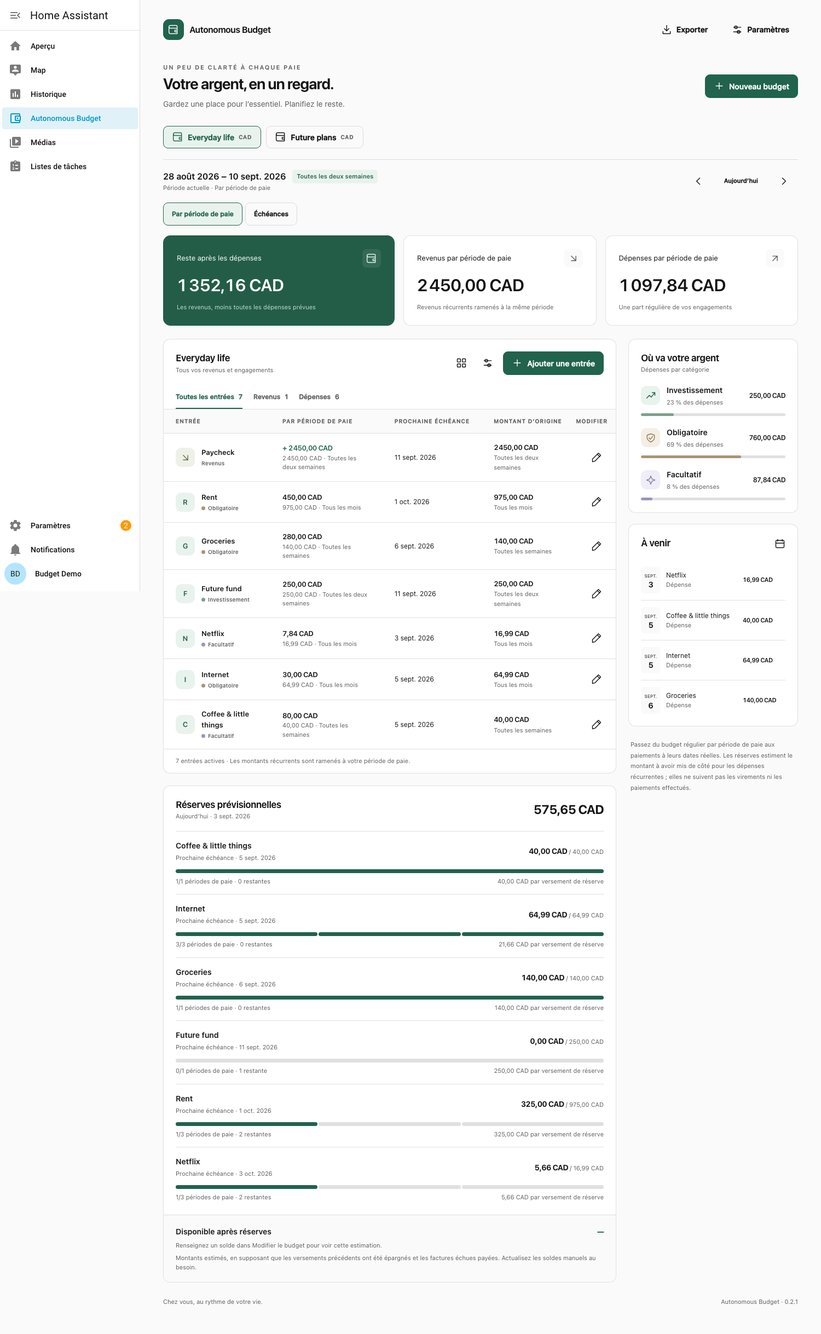
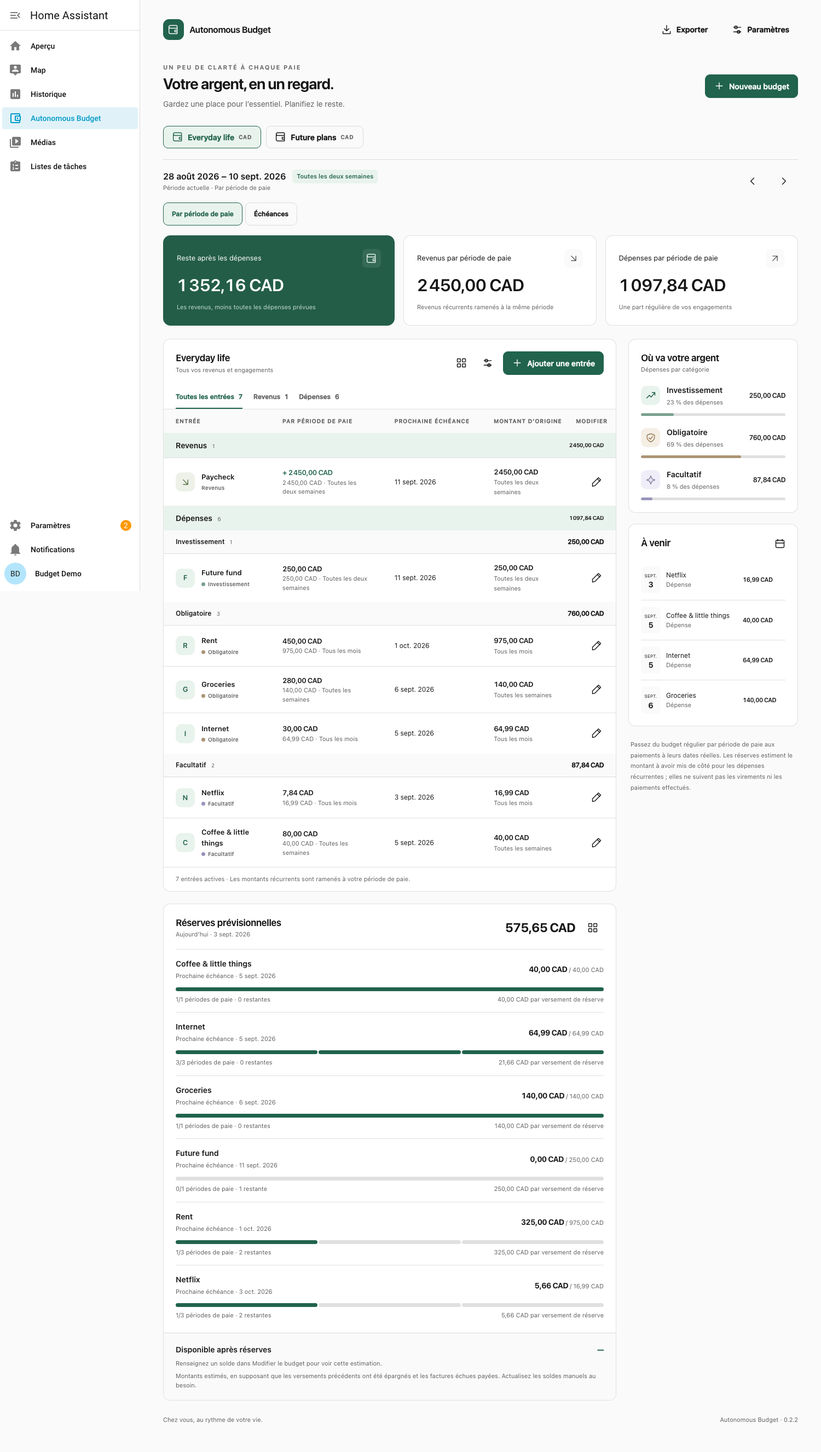
Group budget entries and expose reserve entity access in 0.2.2

diff --git a/custom_components/autonomous_budget/frontend/autonomous-budget-panel.js b/custom_components/autonomous_budget/frontend/autonomous-budget-panel.js
@@ -1,8 +1,9 @@
-import { BudgetLiveElement, baseCSS, esc, icon, labels, options } from "./shared.js?v=0.2.1";
+import { BudgetLiveElement, baseCSS, esc, icon, labels, options } from "./shared.js?v=0.2.2";
 
 const css = `
 :host{height:100%;overflow:auto;background:var(--ab-bg)}.shell{max-width:1390px;margin:auto;padding:32px 42px 50px}.brand{gap:10px}.brand-mark{width:38px;height:38px;border-radius:11px;display:grid;place-items:center;background:var(--ab-green);color:var(--ab-surface)}.brand-title{font-size:16px;font-weight:650;letter-spacing:-.5px}.topbar{padding-bottom:32px}.topbar .muted{font-size:12px}.heading{margin:8px 0 27px}.heading p{margin-top:5px}.budgets{display:flex;gap:9px;overflow-x:auto;padding:3px 0 20px;align-items:center}.budget-tab{white-space:nowrap;background:transparent;min-height:40px;padding:9px 16px}.budget-tab.active{color:var(--ab-green);border-color:var(--ab-green);background:var(--ab-pale)}.budget-tab small{color:var(--ab-muted);font-size:10px;letter-spacing:.8px}.period-bar{padding:18px 0 23px;border-top:1px solid var(--ab-line)}.period-title{font-size:16px;font-weight:600}.period-nav{display:flex;align-items:center;gap:5px}.period-nav button{background:transparent}.period-nav .prev svg{transform:rotate(180deg)}.stats{display:grid;grid-template-columns:1.2fr 1fr 1fr;gap:16px;margin-bottom:24px}.stat{border:1px solid var(--ab-line);border-radius:13px;background:var(--ab-surface);padding:24px}.stat .value{font-size:31px;font-weight:600;margin:12px 0 8px;line-height:1.3;overflow-wrap:anywhere}.stat.balance{background:#235d48;color:#fff;border-color:#235d48}.stat.balance .muted{color:#c8dfd1}.stat.balance .badge{background:#ffffff19;color:#e2f3e9}.stat.balance .negative{color:#ffd2c8}.stat-label{font-size:13px}.stat-icon{border-radius:8px;padding:7px;background:var(--ab-bg);color:var(--ab-muted);height:34px}.balance .stat-icon{background:#ffffff15;color:#e2f3e9}.layout{display:grid;grid-template-columns:minmax(0,1fr) 310px;gap:22px;align-items:start}.box{background:var(--ab-surface);border:1px solid var(--ab-line);border-radius:13px;overflow:hidden}.box-head{padding:22px 22px 18px}.tabs{display:flex;gap:20px;padding:0 22px;border-bottom:1px solid var(--ab-line)}.tabs button{border:0;border-radius:0;background:transparent;color:var(--ab-muted);padding:11px 0;font-size:12px;min-height:44px}.tabs button.active{color:var(--ab-green);box-shadow:inset 0 -2px var(--ab-green)}.table-wrap{overflow:auto}table{border-collapse:collapse;width:100%;text-align:left}th{font-size:10px;color:var(--ab-muted);text-transform:uppercase;letter-spacing:1px;font-weight:550;padding:14px 22px;background:var(--ab-bg);white-space:nowrap}td{padding:16px 22px;border-top:1px solid var(--ab-line);font-size:12px;vertical-align:middle}td:first-child{min-width:180px}td:last-child,th:last-child{text-align:right;padding-left:0;padding-right:15px}td .entry-name{font-weight:600;font-size:13px;max-width:230px;overflow-wrap:anywhere}.entry-icon{width:35px;height:35px;border-radius:10px;display:grid;place-items:center;background:var(--ab-pale);color:var(--ab-green);flex-shrink:0;font-size:13px;font-weight:600}.entry-icon.income{background:#edf1e8;color:#5b7547}.entry-meta{display:flex;align-items:center;gap:5px;font-size:10px;color:var(--ab-muted);margin-top:3px}.amount{white-space:nowrap;font-weight:600;font-size:13px}.small{font-size:11px}.table-foot{border-top:1px solid var(--ab-line);padding:13px 22px;font-size:11px;color:var(--ab-muted)}.side{display:grid;gap:20px}.category-list{padding:0 22px 22px;display:grid;gap:19px}.category-icon{width:35px;height:35px;background:var(--ab-pale);color:var(--ab-green);border-radius:10px;display:grid;place-items:center}.category-icon.mandatory{background:#f4eee5;color:#9a7955}.category-icon.optional{background:#efedf7;color:#877fa3}.category-list .amount{font-size:12px}.bar{height:5px;border-radius:10px;background:var(--ab-line);margin-top:11px;overflow:hidden}.bar span{display:block;height:100%;background:#78a18e;border-radius:10px}.bar .mandatory{background:#ab9475}.bar .optional{background:#9795bc}.schedule{padding:0 22px 10px}.due-row{padding:12px 0;border-bottom:1px solid var(--ab-line);gap:10px}.due-row:last-child{border:0}.date-tile{width:36px;text-align:center;flex-shrink:0;background:var(--ab-bg);border-radius:7px;line-height:1.3;padding:6px 2px}.date-tile b{display:block;font-size:14px}.date-tile span{font-size:8px;text-transform:uppercase}.due-name{max-width:130px;overflow-wrap:anywhere;font-size:12px}.due-row .amount{font-size:11px}.note{padding:3px 4px;color:var(--ab-muted);font-size:11px;line-height:1.8}.footer{margin-top:27px;font-size:11px;color:var(--ab-muted)}.mobile-menu{display:none}.no-budgets{max-width:680px;margin:60px auto}.toolbar{display:flex;gap:8px}.status{padding:50px}.dialog{padding:0;background:var(--ab-surface);color:var(--ab-text);border:1px solid var(--ab-line);border-radius:15px;max-width:550px;width:calc(100% - 32px);max-height:90dvh;box-shadow:0 24px 80px #0003}.dialog::backdrop{background:#102d2366;backdrop-filter:blur(3px)}.dialog header{padding:22px 24px 12px;display:flex;align-items:center;justify-content:space-between}.dialog form,.dialog-content{padding:8px 24px 24px}.form-grid{display:grid;grid-template-columns:1fr 1fr;gap:17px}.field{display:flex;flex-direction:column;gap:7px;font-size:12px;font-weight:550}.field.full{grid-column:1/-1}.field input,.field select{width:100%;min-height:43px;border:1px solid var(--ab-line);border-radius:8px;padding:10px 11px;background:var(--ab-bg);color:var(--ab-text);outline-offset:1px;min-width:0}.field small{font-size:11px;font-weight:400;color:var(--ab-muted)}.field input:disabled,.field select:disabled{opacity:.55}.checkbox{display:flex;align-items:center;gap:9px;font-size:13px}.checkbox input{accent-color:var(--ab-green);width:17px;height:17px}.dialog-actions{display:flex;justify-content:flex-end;gap:9px;margin-top:24px}.form-error{font-size:12px;color:#b13d37;margin-top:14px}.help{padding:13px;background:var(--ab-bg);border-radius:8px;font-size:12px;color:var(--ab-muted);margin-bottom:18px}.dialog pre{white-space:pre-wrap;overflow-wrap:anywhere;padding:14px;background:var(--ab-bg);border-radius:9px;font-size:12px;user-select:all}.dialog h3{margin:18px 0 8px}.toast{position:fixed;bottom:22px;left:50%;transform:translateX(-50%);background:#235d48;color:white;border-radius:9px;padding:12px 22px;z-index:10;box-shadow:0 3px 20px #0002}.paused{opacity:.65}
 .view-switch{display:flex;gap:5px;margin:-5px 0 18px}.view-switch button{font-size:12px;background:transparent}.view-switch .active{background:var(--ab-pale);border-color:var(--ab-green);color:var(--ab-green)}.main-column{display:grid;gap:22px;min-width:0}.reserve-list{padding:0 22px 8px}.reserve-entry{padding:15px 0;border-top:1px solid var(--ab-line)}.reserve-entry h3{overflow-wrap:anywhere}.reserve-entry .row{gap:8px}.reserve-total{font-size:23px}.reserve-amount{white-space:nowrap}.segments{display:flex;gap:2px;height:7px;margin:12px 0 7px}.segments span{flex:1;border-radius:4px;background:linear-gradient(to right,var(--ab-green) var(--fill),var(--ab-line) var(--fill))}.available-summary{padding:19px 22px;background:var(--ab-bg);border-top:1px solid var(--ab-line)}.available-summary p{margin:7px 0 0}.reserves .box-head{gap:12px}
+.entry-group-heading th{text-transform:none;letter-spacing:0;padding:12px 22px;color:var(--ab-text)}.entry-group-heading.direction th{background:var(--ab-pale);font-weight:650}.entry-group-heading.direction h3{font-size:14px}.entry-group-heading.category h3{font-size:12px}.entry-group-heading.category th{font-size:12px;background:var(--ab-bg)}.group-count{font-size:10px;color:var(--ab-muted);font-weight:400;margin-left:6px}.period-nav{flex-shrink:0}
 @media(max-width:1150px){.shell{padding:25px}.layout{grid-template-columns:minmax(0,1fr) 270px}td,th{padding-left:15px;padding-right:15px}.stat .value{font-size:25px}.hide-medium{display:none}}
 @media(max-width:850px){.layout{grid-template-columns:1fr}.side{grid-template-columns:1fr 1fr}.side .note{grid-column:1/-1}.shell{padding:20px}.topbar{padding-bottom:23px}.topbar .desktop-label{display:none}.mobile-menu{display:inline-flex}.stat{padding:18px}.stat .value{font-size:23px}.heading{margin-bottom:20px}}
 @media(max-width:560px){.shell{padding:16px 13px 35px}.brand-title{font-size:14px}.brand-mark{width:32px;height:32px}.topbar{gap:4px}.topbar .row{gap:5px}.heading{align-items:flex-start}.heading h1{font-size:25px}.heading p{font-size:12px;max-width:215px}.heading .primary{font-size:12px;padding:9px 11px}.stats{grid-template-columns:1fr 1fr;gap:10px;margin-bottom:16px}.stat{padding:16px}.stat.balance{grid-column:1/-1}.stat .value{font-size:19px}.stat.balance .value{font-size:32px}.stat-label{font-size:11px}.stat-icon{display:none}.stat .muted{font-size:10px}.period-bar{padding:14px 0 18px;gap:8px}.period-title{font-size:13px}.period-bar .badge{font-size:9px}.period-nav button{padding:8px;min-width:32px}.side{grid-template-columns:1fr}.box-head{padding:18px 16px}.tabs{padding:0 16px}.hide-small{display:none}.entry-name{max-width:140px!important}.entry-icon{display:none}td:first-child{min-width:125px}td,th{padding:13px 14px}.amount{font-size:11px}.form-grid{gap:12px}.dialog header{padding:17px 18px 8px}.dialog form,.dialog-content{padding:8px 18px 20px}.footer{align-items:flex-start;gap:8px}.budget-tab{font-size:12px}.box-head .primary{font-size:12px}}
@@ -29,7 +30,7 @@ class AutonomousBudgetPanel extends BudgetLiveElement {
       <div class="topbar row between"><div class="row"><button class="quiet icon mobile-menu" data-action="menu" aria-label="Open Home Assistant menu">${icon("menu")}</button><div class="brand row"><span class="brand-mark">${icon("wallet")}</span><span class="brand-title">Autonomous Budget</span></div></div><div class="row"><button class="quiet" data-action="export" aria-label="Export budgets" title="Export budgets">${icon("download")}<span class="desktop-label">Export</span></button>${this.admin ? `<button class="quiet" data-action="settings" aria-label="Settings">${icon("settings")}<span class="desktop-label">Settings</span></button>` : '<span class="badge">View only</span>'}</div></div>
       <div class="heading row between"><div><div class="eyebrow muted">A little clarity, every payday</div><h1>Your money, in view.</h1><p class="muted">Make room for what matters. Plan the rest.</p></div>${this.admin ? `<button class="primary" data-action="new-budget">${icon("plus")}New budget</button>` : ""}</div>
       ${budget ? `${this.renderBudgets(budget)}${this.renderBudget(budget)}` : `<section class="box no-budgets empty">${icon("wallet")}<h2>A fresh start for your finances</h2><p class="muted">Create your first budget, then add your income, everyday bills, and future plans.</p>${this.admin ? '<button class="primary" data-action="new-budget">Create your first budget</button>' : '<p class="muted">Ask a Home Assistant administrator to create a budget.</p>'}</section>`}
-      <div class="footer row between"><span>Local to your home. In sync with your life.</span><span>Autonomous Budget · 0.2.1</span></div>
+      <div class="footer row between"><span>Local to your home. In sync with your life.</span><span>Autonomous Budget · 0.2.2</span></div>
     </div>`;
   }
   renderBudgets(budget) {
@@ -41,7 +42,7 @@ class AutonomousBudgetPanel extends BudgetLiveElement {
     const m = (value) => this.money(value, budget.currency);
     const items = budget.items.filter((item) => this.filter === "all" || item.direction === this.filter);
     const upcoming = budget.schedule.filter((item) => item.date >= this.data.today).slice(0, 5);
-    return `<div class="period-bar row between"><div><div class="row wrap"><span class="period-title">${this.dateLabel(budget.period_start, true)} – ${this.dateLabel(budget.period_last_day, true)}</span><span class="badge">${labels[budget.effective_period]}</span></div><div class="muted small">${this.offset === 0 ? "Current period" : this.offset < 0 ? "Past period projection" : "Upcoming period projection"} · ${planned ? "Per pay period" : "Scheduled cash flow"}</div></div><div class="period-nav"><button class="quiet prev" data-action="previous" aria-label="Previous period" ${this.offset <= -120 ? "disabled" : ""}>${icon("chevron")}</button><button class="quiet small" data-action="today">Today</button><button class="quiet" data-action="next" aria-label="Next period" ${this.offset >= 120 ? "disabled" : ""}>${icon("chevron")}</button></div></div>
+    return `<div class="period-bar row between"><div><div class="row wrap"><span class="period-title">${this.dateLabel(budget.period_start, true)} – ${this.dateLabel(budget.period_last_day, true)}</span><span class="badge">${labels[budget.effective_period]}</span></div><div class="muted small">${this.offset === 0 ? "Current period" : this.offset < 0 ? "Past period projection" : "Upcoming period projection"} · ${planned ? "Per pay period" : "Scheduled cash flow"}</div></div><div class="period-nav"><button class="quiet prev" data-action="previous" aria-label="Previous period" ${this.offset <= -120 ? "disabled" : ""}>${icon("chevron")}</button><button class="quiet" data-action="next" aria-label="Next period" ${this.offset >= 120 ? "disabled" : ""}>${icon("chevron")}</button></div></div>
     <div class="view-switch" role="group" aria-label="Calculation view">${["plan", "cashflow"].map((mode) => `<button data-action="view-mode" data-mode="${mode}" class="${this.viewMode === mode ? "active" : ""}" aria-pressed="${this.viewMode === mode}">${mode === "plan" ? "Per pay period" : "Due dates"}</button>`).join("")}</div>
     <section class="stats" aria-label="Period totals">
       <div class="stat balance"><div class="row between"><span class="stat-label">Left after expenses</span><span class="stat-icon">${icon("wallet")}</span></div><div class="value number ${Number(totals.balance) < 0 ? "negative" : ""}">${m(totals.balance)}</div><span class="muted small">${Number(totals.balance) < 0 ? "Planned expenses exceed income this period" : "Income minus everything you have planned"}</span></div>
@@ -50,15 +51,35 @@ class AutonomousBudgetPanel extends BudgetLiveElement {
     </section>
     <div class="layout"><div class="main-column"><section class="box"><div class="box-head row between"><div><h2><span translate="no">${esc(budget.name)}</span></h2><p class="muted small">All your income and commitments</p></div><div class="toolbar"><button class="quiet icon" data-action="dashboard" aria-label="Add budget to a dashboard" title="Dashboard card">${icon("grid")}</button>${this.admin ? `<button class="quiet icon" data-action="edit-budget" aria-label="Edit budget" title="Edit budget">${icon("settings")}</button><button class="primary" data-action="new-item">${icon("plus")}Add entry</button>` : ""}</div></div>
     <div class="tabs" role="group" aria-label="Filter entries">${["all", "income", "expense"].map((filter) => `<button class="${this.filter === filter ? "active" : ""}" data-action="filter" data-filter="${filter}" aria-pressed="${this.filter === filter}">${filter === "all" ? "All entries" : filter === "income" ? "Income" : "Expenses"} <span>${budget.items.filter((item) => filter === "all" || item.direction === filter).length}</span></button>`).join("")}</div>
-    ${items.length ? `<div class="table-wrap"><table><thead><tr><th>Entry</th><th>${planned ? "Per pay period" : "Amount"}</th><th class="hide-small">Next due</th><th class="hide-medium">${planned ? "Original amount" : "This period"}</th><th><span class="muted">${this.admin ? "Edit" : ""}</span></th></tr></thead><tbody>${items.map((item) => `<tr class="${item.active ? "" : "paused"}"><td><div class="row"><span class="entry-icon ${item.direction}">${item.direction === "income" ? icon("down") : esc(item.name.slice(0, 1).toUpperCase())}</span><div class="entry-name"><span translate="no">${esc(item.name)}</span><div class="entry-meta">${item.direction === "expense" ? (item.category ? `<span class="category-dot ${item.category}"></span>${labels[item.category]}` : "To categorize") : "Income"}${item.active ? "" : " · Paused"}</div></div></div></td><td><div class="amount number ${item.direction === "income" ? "positive" : ""}">${item.direction === "income" ? "+ " : ""}${planned ? m(item.planned_amount) : this.money(item.amount, item.currency)}</div><div class="small muted">${planned ? `${this.money(item.amount, item.currency)} · ` : ""}${labels[item.recurrence]}${item.currency !== budget.currency ? ` · × ${esc(item.exchange_rate)}` : ""}</div></td><td class="hide-small"><span>${this.dateLabel(item.next_due, true)}</span></td><td class="hide-medium"><div class="amount number">${planned ? this.money(item.amount, item.currency) : m(item.period_amount)}</div><span class="muted small">${planned ? labels[item.recurrence] : `${item.occurrences} due`}</span></td><td>${this.admin ? `<button class="quiet icon" data-action="edit-item" data-id="${item.id}" aria-label="Edit ${esc(item.name)}">${icon("edit")}</button>` : ""}</td></tr>`).join("")}</tbody></table></div>` : `<div class="empty">${icon("calendar")}<h3>${budget.items.length ? "No entries in this view" : "Give your money a plan"}</h3><p class="muted">${budget.items.length ? "Try another filter or add a new entry." : "Start with a paycheck, a subscription, or a bill. Every entry has its own schedule."}</p>${this.admin ? '<button data-action="new-item">Add an entry</button>' : ""}</div>`}
+    ${items.length ? this.renderEntries(budget, items, planned, totals) : `<div class="empty">${icon("calendar")}<h3>${budget.items.length ? "No entries in this view" : "Give your money a plan"}</h3><p class="muted">${budget.items.length ? "Try another filter or add a new entry." : "Start with a paycheck, a subscription, or a bill. Every entry has its own schedule."}</p>${this.admin ? '<button data-action="new-item">Add an entry</button>' : ""}</div>`}
     <div class="table-foot">${budget.items.filter((item) => item.active).length} active entries · ${planned ? "Recurring amounts are normalized to your pay period." : "Totals count payments due in the selected period."}</div></section>${this.renderReserves(budget)}</div>
     <aside class="side"><section class="box"><div class="box-head"><h2>Where your money goes</h2><p class="muted small">Expenses by category</p></div><div class="category-list">${["investment", "mandatory", "optional"].map((category) => { const pct = Number(totals.expenses) ? Number(totals[category]) / Number(totals.expenses) * 100 : 0; return `<div><div class="row"><span class="category-icon ${category}">${icon(category)}</span><div class="spacer"><h3>${labels[category]}</h3><span class="muted small">${Math.round(pct)}% of expenses</span></div><span class="amount number">${m(totals[category])}</span></div><div class="bar"><span class="${category}" style="width:${pct}%"></span></div></div>`; }).join("")}${budget.category_review.count ? `<div class="category-review"><h3>To categorize</h3><p class="muted small">${budget.category_review.count} expenses need a category. Edit each expense to choose one.</p><strong class="number">${m(budget.category_review[planned ? "planned_amount" : "scheduled_amount"])}</strong></div>` : ""}</div></section>
     <section class="box"><div class="box-head row between"><h2>Coming up</h2>${icon("calendar")}</div><div class="schedule">${upcoming.length ? upcoming.map((item) => `<div class="due-row row"><div class="date-tile"><span>${new Intl.DateTimeFormat(this.language, {month:"short"}).format(new Date(`${item.date}T12:00:00`))}</span><b>${Number(item.date.slice(-2))}</b></div><div class="spacer due-name"><span translate="no">${esc(item.name)}</span><div class="muted small">${labels[item.direction]}</div></div><span class="amount number ${item.direction === "income" ? "positive" : ""}">${item.direction === "income" ? "+ " : ""}${m(item.amount)}</span></div>`).join("") : '<p class="muted small" style="padding:0 0 18px">Nothing else is due in this period.</p>'}</div></section><p class="note">Switch between a regular plan per pay period and payments on their actual due dates. Reserves estimate what should already be set aside for recurring expenses; they do not track transfers or cleared payments.</p></aside></div>`;
   }
+  renderEntries(budget, items, planned, totals) {
+    const m = (value) => this.money(value, budget.currency);
+    const heading = (title, total, count, kind) => `<tr class="entry-group-heading ${kind}"><th colspan="5" scope="rowgroup"><div class="row between"><h3>${title} <span class="group-count">${count}</span></h3><span class="number">${m(total)}</span></div></th></tr>`;
+    const income = items.filter((item) => item.direction === "income");
+    const expenses = items.filter((item) => item.direction === "expense");
+    const categories = ["investment", "mandatory", "optional"];
+    const rows = (entries) => entries.map((item) => this.renderEntry(item, budget, planned)).join("");
+    return `<div class="table-wrap"><table><thead><tr><th>Entry</th><th>${planned ? "Per pay period" : "Amount"}</th><th class="hide-small">Next due</th><th class="hide-medium">${planned ? "Original amount" : "This period"}</th><th><span class="muted">${this.admin ? "Edit" : ""}</span></th></tr></thead>
+      ${income.length ? `<tbody data-group="income">${heading("Income", totals.income, income.length, "direction income")}${rows(income)}</tbody>` : ""}
+      ${expenses.length ? `<tbody data-group="expenses">${heading("Expenses", totals.expenses, expenses.length, "direction")}</tbody>${[...categories, "uncategorized"].map((category) => {
+        const entries = expenses.filter((item) => category === "uncategorized" ? !categories.includes(item.category) : item.category === category);
+        const title = category === "uncategorized" ? "To categorize" : labels[category];
+        const total = category === "uncategorized" ? budget.category_review[planned ? "planned_amount" : "scheduled_amount"] : totals[category];
+        return entries.length ? `<tbody data-group="${category}">${heading(title, total, entries.length, "category")}${rows(entries)}</tbody>` : "";
+      }).join("")}` : ""}</table></div>`;
+  }
+  renderEntry(item, budget, planned) {
+    const m = (value) => this.money(value, budget.currency);
+    return `<tr class="${item.active ? "" : "paused"}"><td><div class="row"><span class="entry-icon ${item.direction}">${item.direction === "income" ? icon("down") : esc(item.name.slice(0, 1).toUpperCase())}</span><div class="entry-name"><span translate="no">${esc(item.name)}</span><div class="entry-meta">${item.direction === "expense" ? (item.category ? `<span class="category-dot ${item.category}"></span>${labels[item.category]}` : "To categorize") : "Income"}${item.active ? "" : " · Paused"}</div></div></div></td><td><div class="amount number ${item.direction === "income" ? "positive" : ""}">${item.direction === "income" ? "+ " : ""}${planned ? m(item.planned_amount) : this.money(item.amount, item.currency)}</div><div class="small muted">${planned ? `${this.money(item.amount, item.currency)} · ` : ""}${labels[item.recurrence]}${item.currency !== budget.currency ? ` · × ${esc(item.exchange_rate)}` : ""}</div></td><td class="hide-small"><span>${this.dateLabel(item.next_due, true)}</span></td><td class="hide-medium"><div class="amount number">${planned ? this.money(item.amount, item.currency) : m(item.period_amount)}</div><span class="muted small">${planned ? labels[item.recurrence] : `${item.occurrences} due`}</span></td><td>${this.admin ? `<button class="quiet icon" data-action="edit-item" data-id="${item.id}" aria-label="Edit ${esc(item.name)}">${icon("edit")}</button>` : ""}</td></tr>`;
+  }
   renderReserves(budget) {
     const m = (value) => this.money(value, budget.currency);
     const entries = budget.items.filter((item) => item.reserve).sort((a, b) => a.reserve.next_due.localeCompare(b.reserve.next_due) || a.name.localeCompare(b.name));
-    return `<section class="box reserves" aria-label="Projected reserves"><div class="box-head row between wrap"><div><h2>Projected reserves</h2><p class="muted small">Today · ${this.dateLabel(budget.reserves.as_of, true)}</p></div><strong class="number reserve-total">${m(budget.reserves.amount)}</strong></div>
+    return `<section class="box reserves" aria-label="Projected reserves"><div class="box-head row between wrap"><div><h2>Projected reserves</h2><p class="muted small">Today · ${this.dateLabel(budget.reserves.as_of, true)}</p></div><div class="row"><strong class="number reserve-total">${m(budget.reserves.amount)}</strong><button class="quiet icon" data-action="reserve-entity" aria-label="Home Assistant entity" title="Home Assistant entity">${icon("grid")}</button></div></div>
       <div class="reserve-list">${entries.length ? entries.map((item) => {
         const reserve = item.reserve;
         const segments = Math.min(reserve.total_paychecks, 52);
@@ -76,9 +97,15 @@ class AutonomousBudgetPanel extends BudgetLiveElement {
     if (action === "select") { this.selected = button.dataset.id; this.filter = "all"; this.render(); return; }
     if (action === "view-mode") { this.viewMode = button.dataset.mode; this.render(); return; }
     if (action === "filter") { this.filter = button.dataset.filter; this.render(); return; }
-    if (["previous", "next", "today"].includes(action)) { this.offset = action === "today" ? 0 : this.offset + (action === "next" ? 1 : -1); this.subscribe(); return; }
+    if (["previous", "next"].includes(action)) { this.offset += action === "next" ? 1 : -1; this.subscribe(); return; }
     if (action === "export") { this.exportData(); return; }
     if (action === "dashboard") { this.openDashboard(); return; }
+    if (action === "reserve-entity") { this.openReserveEntity(); return; }
+    if (action === "show-entity") {
+      this.shadowRoot.querySelector("dialog").close();
+      this.dispatchEvent(new CustomEvent("hass-more-info", {detail: {entityId: button.dataset.entityId}, bubbles: true, composed: true}));
+      return;
+    }
     if (!this.admin) return;
     if (action === "settings") this.openSettings();
     if (action === "new-budget" || action === "edit-budget") this.openBudget(action === "edit-budget");
@@ -132,6 +159,15 @@ class AutonomousBudgetPanel extends BudgetLiveElement {
   confirmDelete(kind, item) {
     this.editing = item;
     this.openDialog(`Delete ${kind}?`, `<form><p>Delete <strong><span translate="no">${esc(item.name)}</span></strong>${kind === "budget" ? " and all its entries" : ""}? This cannot be undone.</p><div class="form-error" role="alert"></div><div class="dialog-actions"><button type="button" data-action="close">Cancel</button><button type="submit" class="danger">Delete ${kind}</button></div></form>`, `delete-${kind}`);
+  }
+  openReserveEntity() {
+    const entity = Object.values(this.hass.states).find((state) => state.attributes.budget_id === this.budget.id && state.attributes.metric === "reserved");
+    if (!entity) {
+      this.openDialog("Reserve entity", '<div class="dialog-content"><p>The reserve entity is unavailable. In Settings → Devices & services → Autonomous Budget, open this budget and enable its Projected reserve sensor if disabled. Restart Home Assistant after updating the integration.</p><div class="dialog-actions"><button data-action="close">Done</button></div></div>', "reserve-entity");
+      return;
+    }
+    const yaml = `type: entity\nentity: ${entity.entity_id}\nname: ${this.t("Projected reserves")}`;
+    this.openDialog("Reserve entity", `<div class="dialog-content"><p class="muted">This sensor tracks the total projected reserve for this budget, in its currency. It updates after edits and at local midnight.</p><h3>Entity ID</h3><pre>${esc(entity.entity_id)}</pre><h3>Add to a dashboard</h3><pre>${esc(yaml)}</pre><div class="dialog-actions"><button data-action="close">Done</button><button class="primary" data-action="show-entity" data-entity-id="${esc(entity.entity_id)}">Open entity</button></div></div>`, "reserve-entity");
   }
   openDashboard() {
     const yaml = `type: custom:autonomous-budget-card\nbudget_id: ${this.budget.id}\nview: plan\nshow_categories: true\nshow_upcoming: true\nshow_reserves: true`;

diff --git a/tests/browser/budget.spec.js b/tests/browser/budget.spec.js
@@ -28,10 +28,22 @@ test('desktop panel, period navigation, and dashboard card', async ({ page }) =>
   await expect(panel.getByText('CAD 1,352.16', {exact: true})).toBeVisible();
   await expect(panel.getByRole('heading', {name: 'Projected reserves', exact: true})).toBeVisible();
   await expect(panel.getByRole('progressbar').first()).toBeVisible();
+  await expect(panel.locator('.period-nav button')).toHaveCount(2);
+  await expect(panel.locator('.period-nav').getByRole('button', {name:'Today'})).toHaveCount(0);
+  expect(await panel.locator('tbody').evaluateAll(groups => groups.map(el => el.dataset.group))).toEqual(['income', 'expenses', 'investment', 'mandatory', 'optional']);
+  await expect(panel.locator('tbody[data-group="income"] .entry-name > span')).toHaveText(['Paycheck']);
+  await expect(panel.locator('tbody[data-group="investment"] .entry-name > span')).toHaveText(['Future fund']);
+  await expect(panel.locator('tbody[data-group="mandatory"] .entry-name > span')).toHaveText(['Rent', 'Groceries', 'Internet']);
+  await expect(panel.locator('tbody[data-group="optional"] .entry-name > span')).toHaveText(['Netflix', 'Coffee & little things']);
+  await panel.getByRole('group', {name:'Filter entries'}).getByRole('button', {name:/^Income/}).click();
+  await expect(panel.locator('tbody')).toHaveCount(1);
+  await panel.getByRole('group', {name:'Filter entries'}).getByRole('button', {name:/^Expenses/}).click();
+  await expect(panel.locator('tbody[data-group="income"]')).toHaveCount(0);
+  await panel.getByRole('group', {name:'Filter entries'}).getByRole('button', {name:/^All entries/}).click();
   const period = await panel.locator('.period-title').innerText();
   await panel.getByRole('button', {name: 'Next period', exact: true}).click();
   await expect(panel.locator('.period-title')).not.toHaveText(period);
-  await panel.getByRole('button', {name: 'Today', exact: true}).click();
+  await panel.getByRole('button', {name: 'Previous period', exact: true}).click();
   await expect(panel.locator('.period-title')).toHaveText(period);
   await page.screenshot({path: 'docs/screenshot-desktop.png', fullPage: true});
   await panel.getByRole('button', {name: 'Add budget to a dashboard'}).click();
@@ -99,6 +111,7 @@ test('mobile layout and editable settings', async ({ page }) => {
   await expect(panel.getByRole('heading', {name:'Your money, in view.'})).toBeVisible();
   await page.screenshot({path:'docs/screenshot-mobile.png', fullPage:true});
   expect(await panel.evaluate((el) => el.shadowRoot.querySelector('.shell').scrollWidth <= el.clientWidth)).toBeTruthy();
+  await expect(panel.locator('.period-nav button')).toHaveCount(2);
   await panel.getByRole('button', {name:'Settings', exact:true}).click();
   await expect(panel.getByLabel('Budget period')).toHaveValue('biweekly');
   await panel.getByLabel('Budget period').selectOption('weekly');
@@ -134,6 +147,11 @@ test('French panel, optional pay schedule, and untranslated user names', async (
   await expect(panel.getByRole('heading', {name:'Income',exact:true})).toHaveCount(0);
   await expect(panel.locator('.toast')).toHaveCount(0);
   await expect(panel.locator('.table-foot')).toContainText('entrées actives');
+  await expect(panel.locator('tbody[data-group="income"] h3')).toContainText('Revenus');
+  await expect(panel.locator('tbody[data-group="expenses"] h3')).toContainText('Dépenses');
+  await expect(panel.locator('tbody[data-group="investment"] h3')).toContainText('Investissement');
+  await expect(panel.locator('.period-nav button')).toHaveCount(2);
+  await expect(panel.locator('.period-nav')).not.toContainText('Aujourd’hui');
   await page.screenshot({path:'docs/screenshot-french.png',fullPage:true});
 });
 
@@ -173,6 +191,23 @@ test('paycheck reserves, manual available balance, native sensors, export, and c
     {metric: 'reserved', state: '120.00'},
     {metric: 'available_balance', state: '-40.00'},
   ]));
+  const entityInfo = await panel.evaluate(async el => {
+    const state = Object.values(el.hass.states).find(state => state.attributes.budget_id === el.budget.id && state.attributes.metric === 'reserved');
+    const registry = await el.hass.callWS({type:'config/entity_registry/list'});
+    return {state, registration: registry.find(entity => entity.entity_id === state.entity_id)};
+  });
+  expect(entityInfo.state.state).toBe('120.00');
+  expect(entityInfo.state.attributes.device_class).toBe('monetary');
+  expect(entityInfo.state.attributes.unit_of_measurement).toBe('CAD');
+  expect(entityInfo.registration.disabled_by).toBeNull();
+  await panel.getByRole('button', {name:'Home Assistant entity',exact:true}).click();
+  await expect(panel.locator('dialog pre').first()).toHaveText(entityInfo.state.entity_id);
+  await expect(panel.locator('dialog pre').last()).toContainText(`entity: ${entityInfo.state.entity_id}`);
+  await panel.getByRole('button', {name:'Open entity',exact:true}).click();
+  await expect(page.getByRole('dialog')).toBeVisible();
+  await expect(page.getByRole('link', {name:'Show more'})).toHaveAttribute('href', new RegExp(entityInfo.state.entity_id));
+  await page.getByRole('button', {name:'Close',exact:true}).click();
+  await expect(page.getByRole('dialog')).not.toBeVisible();
   const downloadPromise = page.waitForEvent('download');
   await panel.getByRole('button', {name:'Export budgets'}).click();
   const download = await downloadPromise;
@@ -236,6 +271,15 @@ test('income saves without category and changing direction requires an expense c
   await panel.getByRole('button', {name:'Save changes', exact:true}).click();
   await expect(panel.locator('.category-list .amount')).toHaveText(['CAD 1,000.00', 'CAD 0.00', 'CAD 0.00']);
   await expect(panel.locator('.category-list').getByText('100% of expenses')).toBeVisible();
+  // A newly added income moves above an expense created earlier.
+  await panel.getByRole('button', {name:'Add entry',exact:true}).click();
+  await panel.getByLabel('Money flow').selectOption('income');
+  await panel.getByLabel('Entry name').fill('Bonus test');
+  await panel.getByLabel('Amount', {exact:true}).fill('50');
+  await panel.getByRole('button', {name:'Add entry',exact:true}).last().click();
+  await expect(panel.locator('tbody').first()).toHaveAttribute('data-group', 'income');
+  await expect(panel.locator('tbody').first().getByText('Bonus test', {exact:true})).toBeVisible();
+  await expect(panel.locator('tbody[data-group="investment"]').getByText('Paycheck test', {exact:true})).toBeVisible();
   await page.reload();
   await panel.getByRole('button', {name:'Category correction test CAD'}).click();
   await panel.getByRole('button', {name:'Edit Paycheck test'}).click();

diff --git a/custom_components/autonomous_budget/frontend/i18n.js b/custom_components/autonomous_budget/frontend/i18n.js
@@ -1,5 +1,8 @@
 /** English source strings and French UI translations. User content is excluded. */
 const fr = {
+  "Home Assistant entity": "Entité Home Assistant", "Reserve entity": "Entité de réserve", "Entity ID": "Identifiant de l’entité", "Add to a dashboard": "Ajouter à un tableau de bord", "Open entity": "Ouvrir l’entité",
+  "This sensor tracks the total projected reserve for this budget, in its currency. It updates after edits and at local midnight.": "Ce capteur suit la réserve prévisionnelle totale de ce budget, dans sa devise. Il est actualisé après les modifications et à minuit, heure locale.",
+  "The reserve entity is unavailable. In Settings → Devices & services → Autonomous Budget, open this budget and enable its Projected reserve sensor if disabled. Restart Home Assistant after updating the integration.": "L’entité de réserve est indisponible. Dans Paramètres → Appareils et services → Autonomous Budget, ouvrez ce budget et activez son capteur Réserve prévisionnelle s’il est désactivé. Redémarrez Home Assistant après la mise à jour de l’intégration.",
   "To categorize": "À catégoriser", "Choose a category": "Choisissez une catégorie",
   "Per pay period": "Par période de paie",
   "Due dates": "Échéances",

diff --git a/custom_components/autonomous_budget/frontend/autonomous-budget-card.js b/custom_components/autonomous_budget/frontend/autonomous-budget-card.js
@@ -1,4 +1,4 @@
-import { BudgetLiveElement, baseCSS, esc, icon, labels } from "./shared.js?v=0.2.1";
+import { BudgetLiveElement, baseCSS, esc, icon, labels } from "./shared.js?v=0.2.2";
 
 class AutonomousBudgetCard extends BudgetLiveElement {
   setConfig(config) { this.config = { view: "plan", show_reserves: true, show_categories: true, show_upcoming: true, ...config }; this.render(); }

diff --git a/custom_components/autonomous_budget/frontend/shared.js b/custom_components/autonomous_budget/frontend/shared.js
@@ -1,4 +1,4 @@
-import { localize, translate } from "./i18n.js?v=0.2.1";
+import { localize, translate } from "./i18n.js?v=0.2.2";
 /** Local-only shared UI primitives. No remote fonts, scripts, or trackers. */
 export const labels = {
   "": "Use default",

diff --git a/custom_components/autonomous_budget/const.py b/custom_components/autonomous_budget/const.py
@@ -2,7 +2,7 @@
 
 DOMAIN = "autonomous_budget"
 NAME = "Autonomous Budget"
-VERSION = "0.2.1"
+VERSION = "0.2.2"
 STORAGE_VERSION = 1
 SIGNAL_CHANGED = f"{DOMAIN}_changed"
 PANEL_PATH = "autonomous-budget"

diff --git a/README.md b/README.md
@@ -22,9 +22,10 @@ Create budgets, spread recurring commitments across paydays, and see what's left
 
 - **Multiple budgets.** Give each budget a name and currency: everyday life, a project, or a future plan.
 - **Your own rhythm.** Daily, weekly, every two weeks, monthly, or yearly. Each budget can optionally set its own pay period and payday. Leave them empty to use the global defaults; two weeks is the initial default.
+- **Grouped entries.** Income appears first, followed by expenses grouped as Investment, Mandatory, and Optional. Each group shows its total for the selected calculation view; older expenses awaiting classification stay in a separate group.
 - **Income and expenses.** Every entry has a money-flow direction. Income has no category. Each expense has one of three categories: **Investment**, **Mandatory**, or **Optional**.
 - **Recurring commitments.** Add Netflix, rent, a paycheck, or a savings contribution with its amount, currency, renewal date, and frequency. One-time entries, end dates, and pausing are supported too.
-- **A plan for each payday.** Compare income and expenses on the same time scale, then switch to **Due dates** to see actual scheduled cash flow. Browse previous and upcoming periods.
+- **A plan for each payday.** Compare income and expenses on the same time scale, then switch to **Due dates** to see actual scheduled cash flow. Browse previous and upcoming periods using the two arrow buttons.
 - **Progressive reserves.** See the projected amount set aside for each recurring expense, its next renewal, and completed / remaining pay periods.
 - **Optional available balance.** Enter an account balance and credit owed per budget to estimate what remains after projected reserves. Balances are manual and can be left empty.
 - **Home Assistant dashboards.** A bundled visual card and eleven native monetary sensors per budget. No separate card download or manual resource registration.
@@ -180,7 +181,9 @@ Each budget is a device with eleven monetary sensors:
 | Projected reserve | Total projected reserve for recurring expenses as of today |
 | Available after reserves | Manual account balance minus credit owed and projected reserves; unknown until an account balance is entered |
 
-Find the exact entity IDs in **Settings → Devices & services → Autonomous Budget**. Each sensor includes `budget_id`, `metric`, `calculation`, `reserve_date`, effective `period`, `reference_date`, `period_start`, and exclusive `period_end` attributes. IDs remain stable when you rename a budget. Sensors update on edits and at local midnight, and can be used in built-in cards, templates, history, and automations.
+For the reserve sensor, click **Home Assistant entity** beside the total in **Projected reserves**. The dialog shows the actual entity ID and ready-to-paste dashboard YAML, and **Open entity** opens its native Home Assistant details. Every budget already exposes this sensor, including when the projected reserve is zero; no optional account balance is required.
+
+You can also find all entity IDs in **Settings → Devices & services → Autonomous Budget**. Each sensor includes `budget_id`, `metric`, `calculation`, `reserve_date`, effective `period`, `reference_date`, `period_start`, and exclusive `period_end` attributes. IDs remain stable when you rename a budget. Sensors update on edits and at local midnight, and can be used in built-in cards, templates, history, and automations.
 
 ```yaml
 # Replace these example IDs with the entities from your installation.
@@ -213,9 +216,9 @@ Data is stored in `.storage/autonomous_budget` within the Home Assistant configu
 
 Removing the integration keeps its stored budgets so reinstalling can restore them. Deleting a budget in the panel removes its entries and sensors. Use a Home Assistant backup before deleting data you may need again. The JSON export is for inspection and portability; an import UI is not included in this release.
 
-## Updating from 0.1.0 or 0.2.0
+## Updating from an earlier version
 
-Download **0.2.1** in HACS, restart Home Assistant, and refresh open browser tabs. Existing budgets, entry IDs, amounts, schedules, reserves, and manual balances are preserved. Five planning/reserve sensors are added when upgrading from 0.1.0.
+Download **0.2.2** in HACS, restart Home Assistant, and refresh open browser tabs. Existing budgets, entry IDs, amounts, schedules, reserves, and manual balances are preserved. Five planning/reserve sensors are added when upgrading from 0.1.0.
 
 This corrects the category direction in earlier releases: **income has no category; expenses have categories**. Existing income categories are removed automatically. Earlier uncategorized expenses appear as **To categorize**: edit each one and choose Investment, Mandatory, or Optional. No category is guessed for an old expense. These entries continue contributing to total expenses, remaining money, and reserves while awaiting a category; their unassigned amount is shown separately in the breakdown.
 

diff --git a/CHANGELOG.md b/CHANGELOG.md
@@ -1,5 +1,12 @@
 # Changelog
 
+## 0.2.2 — 2026-09-03
+
+- Simplify period navigation to the previous and next arrow buttons, removing the Today button.
+- Group budget entries with income first, then expenses by Investment, Mandatory, and Optional, with group totals and a separate group for older expenses awaiting classification.
+- Add direct access to each budget's existing native projected-reserve sensor, including its actual entity ID, dashboard YAML, and Home Assistant entity details.
+- Verify reserve entities are enabled by default, monetary, and consistent with the panel. Update English/French UI, screenshots, and dashboard instructions.
+
 ## 0.2.1 — 2026-09-03
 
 Correct which entries have categories.

diff --git a/docs/dashboards.md b/docs/dashboards.md
@@ -36,6 +36,8 @@ entities:
 
 ## Reserve and available-balance card
 
+In the sidebar, click **Home Assistant entity** beside the **Projected reserves** total to get the exact reserve sensor ID and YAML for the selected budget. **Open entity** opens its native details. This sensor is enabled by default, uses the budget currency, and updates after edits and at local midnight. Its value always represents today, even when the sidebar is browsing another period.
+
 ```yaml
 type: entities
 title: Money set aside
